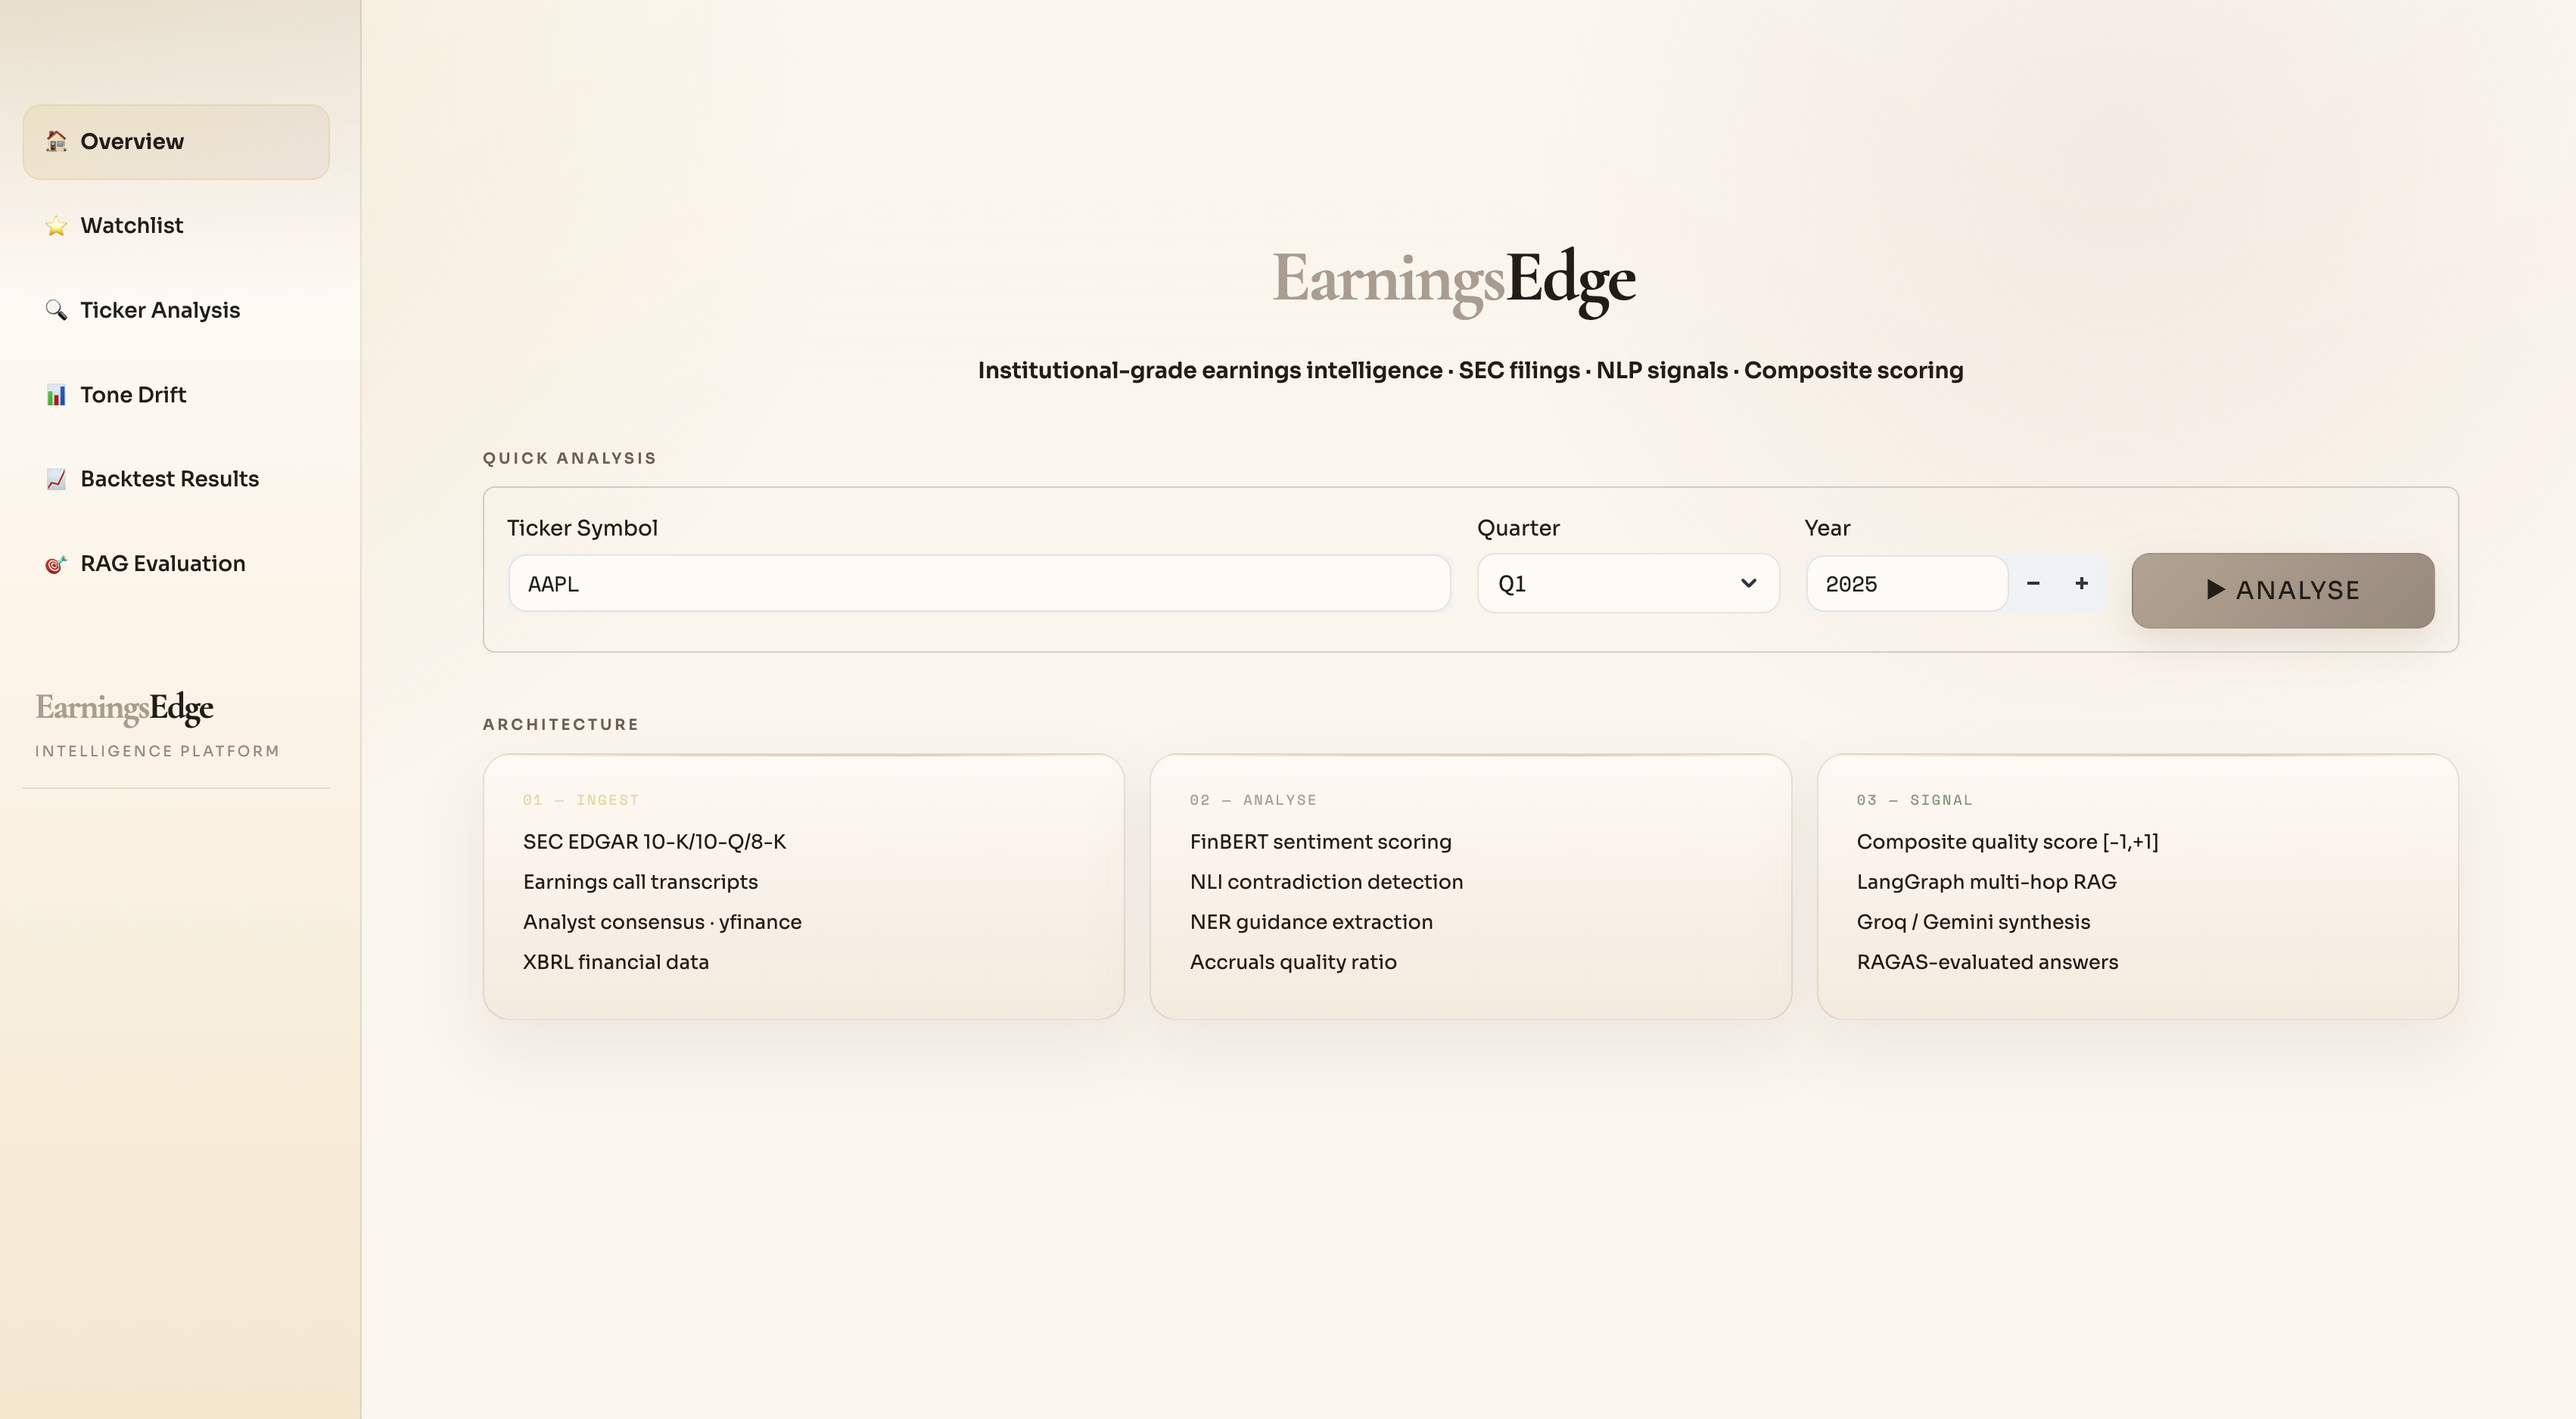
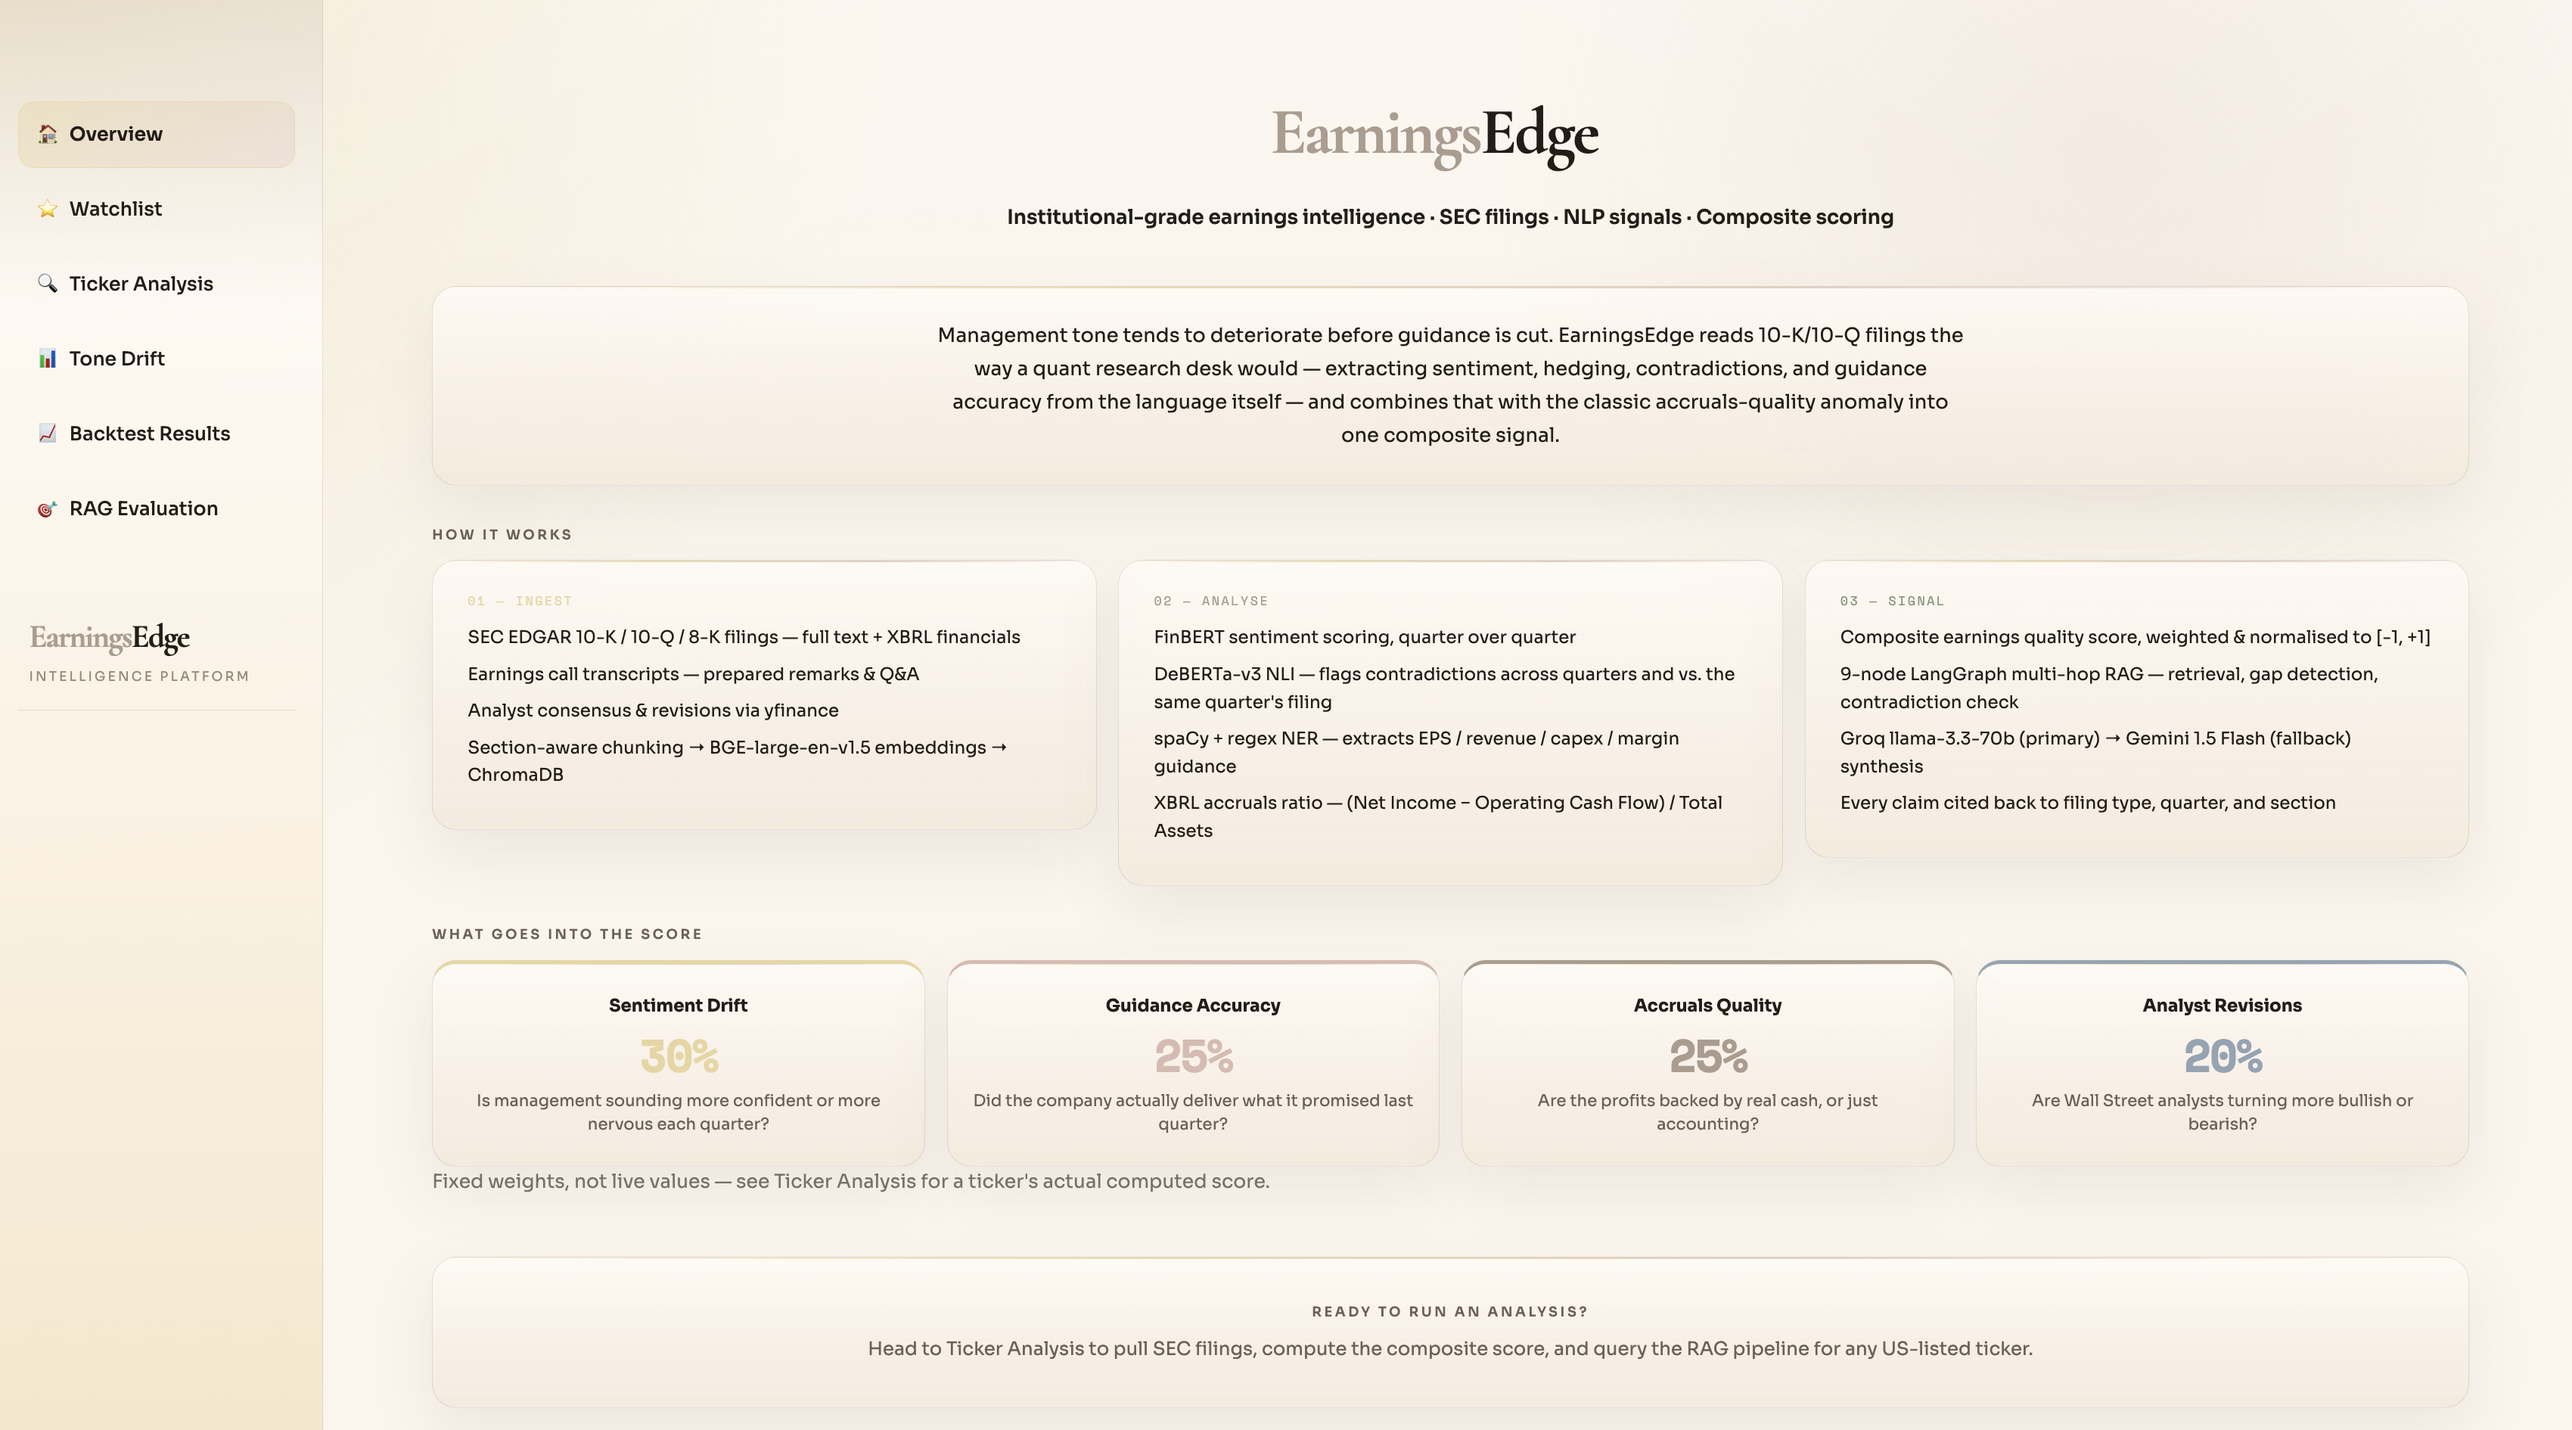
Update screenshots and README to reflect this session's live UI/backtest fixes
Fresh screenshots confirm the Overview refactor, the Ticker Analysis main-area
layout move, the disk-backed backtest loader, and the RAG Evaluation control
relocation are all working end to end -- removes the now-outdated "predates a
refactor" and "not currently wired up" warnings accordingly.

Also revises the Known Limitations IC claim: the backtest currently has only
2 qualifying signals (insufficient data per MIN_TRADES_FOR_IC), and the
earlier "IC (~0" reading was most likely the pre-fix metrics functions
silently defaulting to 0.0 for too-small samples, not a real measurement.

Adds a RAG Evaluation screenshot section (previously missing entirely) and
drops the NLI Contradiction Detection section, whose image was never actually
committed to the repo.

diff --git a/README.md b/README.md
@@ -35,21 +35,19 @@ It reads **10-K and 10-Q filings** directly from SEC EDGAR, extracts financial s
 
 *A descriptive landing page — pipeline overview, the four composite-score weights, and a link to Ticker Analysis. No ticker input or pipeline trigger lives here.*
 
-> ⚠ This screenshot predates a refactor this session that removed Home's Quick Analysis form — the page no longer looks like this. See [Known Limitations](#known-limitations).
+---
+
+### ⭐ Watchlist & Batch Ingestion
+<img src="frontend/assets/02_watchlist.png" alt="Watchlist" width="100%"/>
+
+*Manage tickers, batch-ingest new ones, refresh stale data (>7 days), or re-ingest everything — with per-ticker freshness status and its on-disk data path.*
 
 ---
 
 ### 📊 Ticker Analysis — Earnings Quality Score
-<img src="frontend/assets/02_ticker_analysis.png" alt="Ticker Analysis" width="100%"/>
+<img src="frontend/assets/03_ticker_analysis.png" alt="Ticker Analysis" width="100%"/>
 
-*Composite quality score [-1, +1] with 4-component breakdown. GREEN / YELLOW / RED tone drift alert alongside retrieval metadata.*
-
----
-
-### 🔍 NLI Contradiction Detection
-<img src="frontend/assets/03_contradictions.png" alt="Contradiction Detection" width="100%"/>
-
-*DeBERTa-v3 cross-encoder flags semantic contradictions between quarters — e.g., "robust supply chain" in Q2 vs. "supply chain headwinds" in Q3.*
+*Composite quality score [-1, +1] with a 4-component breakdown, tone drift alert badge, and retrieval metadata (chunks retrieved, RAG hops, grounding score, latency). Controls and the freshness caption live in the main content area, not the sidebar.*
 
 ---
 
@@ -60,26 +58,24 @@ It reads **10-K and 10-Q filings** directly from SEC EDGAR, extracts financial s
 
 ---
 
-### ⭐ Watchlist & Batch Ingestion
-<img src="frontend/assets/05_watchlist.png" alt="Watchlist" width="100%"/>
-
-*Add multiple tickers at once. Batch ingest new, refresh stale (>7 days), or re-ingest all — with per-ticker live status and a progress bar.*
-
----
-
 ### 📉 Tone Drift Monitor
-<img src="frontend/assets/06_tone_drift.png" alt="Tone Drift" width="100%"/>
+<img src="frontend/assets/05_tone_drift.png" alt="Tone Drift" width="100%"/>
 
 *Quarter-by-quarter FinBERT sentiment timeline. Consecutive deterioration triggers RED alert — management credibility signal before consensus cuts.*
 
 ---
 
 ### 🔁 Backtest Results
-<img src="frontend/assets/07_backtest.png" alt="Backtest Results" width="100%"/>
+<img src="frontend/assets/06_backtest.png" alt="Backtest Results" width="100%"/>
 
-*Composite score → long/short signal → returns. Sharpe ratio, hit rate, information coefficient (IC), alpha, and beta vs. SPY.*
+*Composite score → long/short signal → returns, loaded straight off every ticker's saved `analysis.json` — no manual wiring required. The page states plainly what it ran over ("2 of 85 quality scores cleared the ±0.30 signal thresholds") and reports "insufficient data (n=X)" instead of a fabricated Sharpe/IC when a slice has too few trades to compute one honestly, rather than silently showing 0.000.*
 
-> ⚠ **Not currently wired up.** This page reads `st.session_state["quality_scores"]`, and nothing anywhere in the codebase writes that key — clicking "Run Backtest" always shows "No quality scores. Run `make analyze TICKER=X` first," even after running an analysis. The screenshot above shows the intended UI, not something you can currently reproduce. Details in [Known Limitations](#known-limitations).
+---
+
+### 🎯 RAG Evaluation
+<img src="frontend/assets/07_RAGAS.png" alt="RAG Evaluation" width="100%"/>
+
+*Per-query RAGAS/LLM-fallback scores (faithfulness, answer relevance, context precision, context recall) plus MLflow experiment history, filterable by ticker.*
 
 ---
 
@@ -107,7 +103,7 @@ It reads **10-K and 10-Q filings** directly from SEC EDGAR, extracts financial s
 |---|---|
 | **Sentiment Drift** | Management tone deteriorates before guidance cuts, in theory. FinBERT is fine-tuned on Financial PhraseBank (financial *news* sentences) — applying it to 10-K/10-Q legalese is out-of-distribution, a real limitation of this signal that hasn't been corrected for. |
 | **Guidance Accuracy** | Sandbagging (conservative guidance) predicts positive surprises. Overoptimistic guidance predicts misses. |
-| **Accruals Ratio** | Sloan (1996): high accruals mean earnings aren't backed by cash. The ~10% annual alpha figure is from the academic accruals-anomaly literature generally — not a result this system has reproduced (its own measured IC is close to zero; see Known Limitations). |
+| **Accruals Ratio** | Sloan (1996): high accruals mean earnings aren't backed by cash. The ~10% annual alpha figure is from the academic accruals-anomaly literature generally — not a result this system has reproduced (the backtest still has too few qualifying trades to report an IC at all; see Known Limitations). |
 | **Analyst Revisions** | Net revision direction is a proxy for informed money flow. Upgrades before earnings = smart money positioning. |
 
 ---
@@ -319,7 +315,7 @@ The accruals anomaly is one of the most replicated findings in empirical asset p
 Accruals Ratio = (Net Income − Operating Cash Flow) / Total Assets
 ```
 
-When this ratio is **high**, earnings greatly exceed cash generation — a sign of aggressive revenue recognition or expense deferral. These inflated earnings mean-revert. A hedge portfolio long low-accrual and short high-accrual companies historically generates ~10% annual alpha with low market beta — **this figure is from the academic accruals-anomaly literature, not from backtesting this system**, whose own measured Information Coefficient is close to zero (see Known Limitations below).
+When this ratio is **high**, earnings greatly exceed cash generation — a sign of aggressive revenue recognition or expense deferral. These inflated earnings mean-revert. A hedge portfolio long low-accrual and short high-accrual companies historically generates ~10% annual alpha with low market beta — **this figure is from the academic accruals-anomaly literature, not from backtesting this system**, which so far has too few qualifying trades to report an Information Coefficient at all (see Known Limitations below).
 
 EarningsEdge computes this from **XBRL-tagged financial data** in SEC filings — the same structured dataset used by institutional data vendors like FactSet and Bloomberg — and weights it 25% in the composite score.
 
@@ -345,13 +341,13 @@ Consumer         NKE   COST  MCD   SBUX   TGT
 
 Validating this system end-to-end surfaced several honest findings worth stating directly rather than glossing over:
 
-- **Realised Information Coefficient is close to zero.** The Spearman rank correlation between the composite score and forward returns comes out near 0 in backtesting — as currently weighted and computed, the signal has not demonstrated measurable predictive power.
-- **Two of four components are look-ahead contaminated.** `sentiment_drift_component` and `analyst_revision_component` — 50% of the composite weight — are each computed once from present-day data (the full historical drift trend, and a 30-day analyst-revision snapshot) and reused unchanged for every historical quarter of a ticker's series. They're constant across time and leak future information into the past, which is almost certainly why the measured IC is flat.
+- **The realised Information Coefficient isn't known yet — and the earlier "≈0" reading was probably measuring a bug, not the signal.** Spearman IC needs at least 5 trades to be mathematically defined (`MIN_TRADES_FOR_IC` in `src/backtest/metrics.py`). Across the 6 tickers analysed so far, only 2 of 85 quarterly scores ever crossed the ±0.30 signal threshold (see the Backtest Results screenshot above), so the honest answer today is "insufficient data," not a number. Before this session's fixes, the same function silently returned `0.0` whenever there weren't enough trades — indistinguishable in the UI from a real, measured zero correlation. That's very likely the origin of the earlier "IC ≈ 0" claim: not evidence the signal doesn't work, but a placeholder default being mistaken for a result.
+- **The backtest sample is still tiny.** The page itself works now — it loads every analysed ticker's saved score off disk and runs a real simulation — but with only 2 LONG signals and 0 SHORT across the 6 tickers analysed so far, the Sharpe (1.03) and 100% hit rate shown in the screenshot are each based on exactly 2 trades. That's nowhere near a track record; it needs many more analysed tickers and quarters before those numbers are trustworthy.
+- **Two of four components are look-ahead contaminated.** `sentiment_drift_component` and `analyst_revision_component` — 50% of the composite weight — are each computed once from present-day data (the full historical drift trend, and a 30-day analyst-revision snapshot) and reused unchanged for every historical quarter of a ticker's series. They're constant across time and leak future information into the past — this alone would undermine any IC computed from them, independent of the sample-size problem above.
 - **Backtest entry dates are heuristic, not real.** Earnings announcement dates are estimated as the 15th of a fixed month per fiscal quarter rather than pulled from an actual corporate calendar — entry timing can be off by weeks.
 - **No transaction costs, slippage, or borrow costs are modelled.** Reported Sharpe/return figures are gross, frictionless numbers.
-- **The Backtest Results page is not currently functional** — see the note under the Backtest Results screenshot above.
 
-None of this invalidates the underlying signal engineering — FinBERT-based tone drift, NLI contradiction detection, guidance-accuracy tracking, and XBRL-based accruals are each independently real and interesting. But the system has not yet demonstrated that its composite score predicts returns, and the honest next step is fixing the look-ahead leakage in two of its four components before the IC number means anything either way.
+None of this invalidates the underlying signal engineering — FinBERT-based tone drift, NLI contradiction detection, guidance-accuracy tracking, and XBRL-based accruals are each independently real and interesting. But the system has not yet demonstrated that its composite score predicts returns: partly because there isn't enough backtested data yet, and partly because the look-ahead leakage in two of its four components would contaminate the result even if there were. Both need fixing before an IC number here means anything.
 
 ---
 
